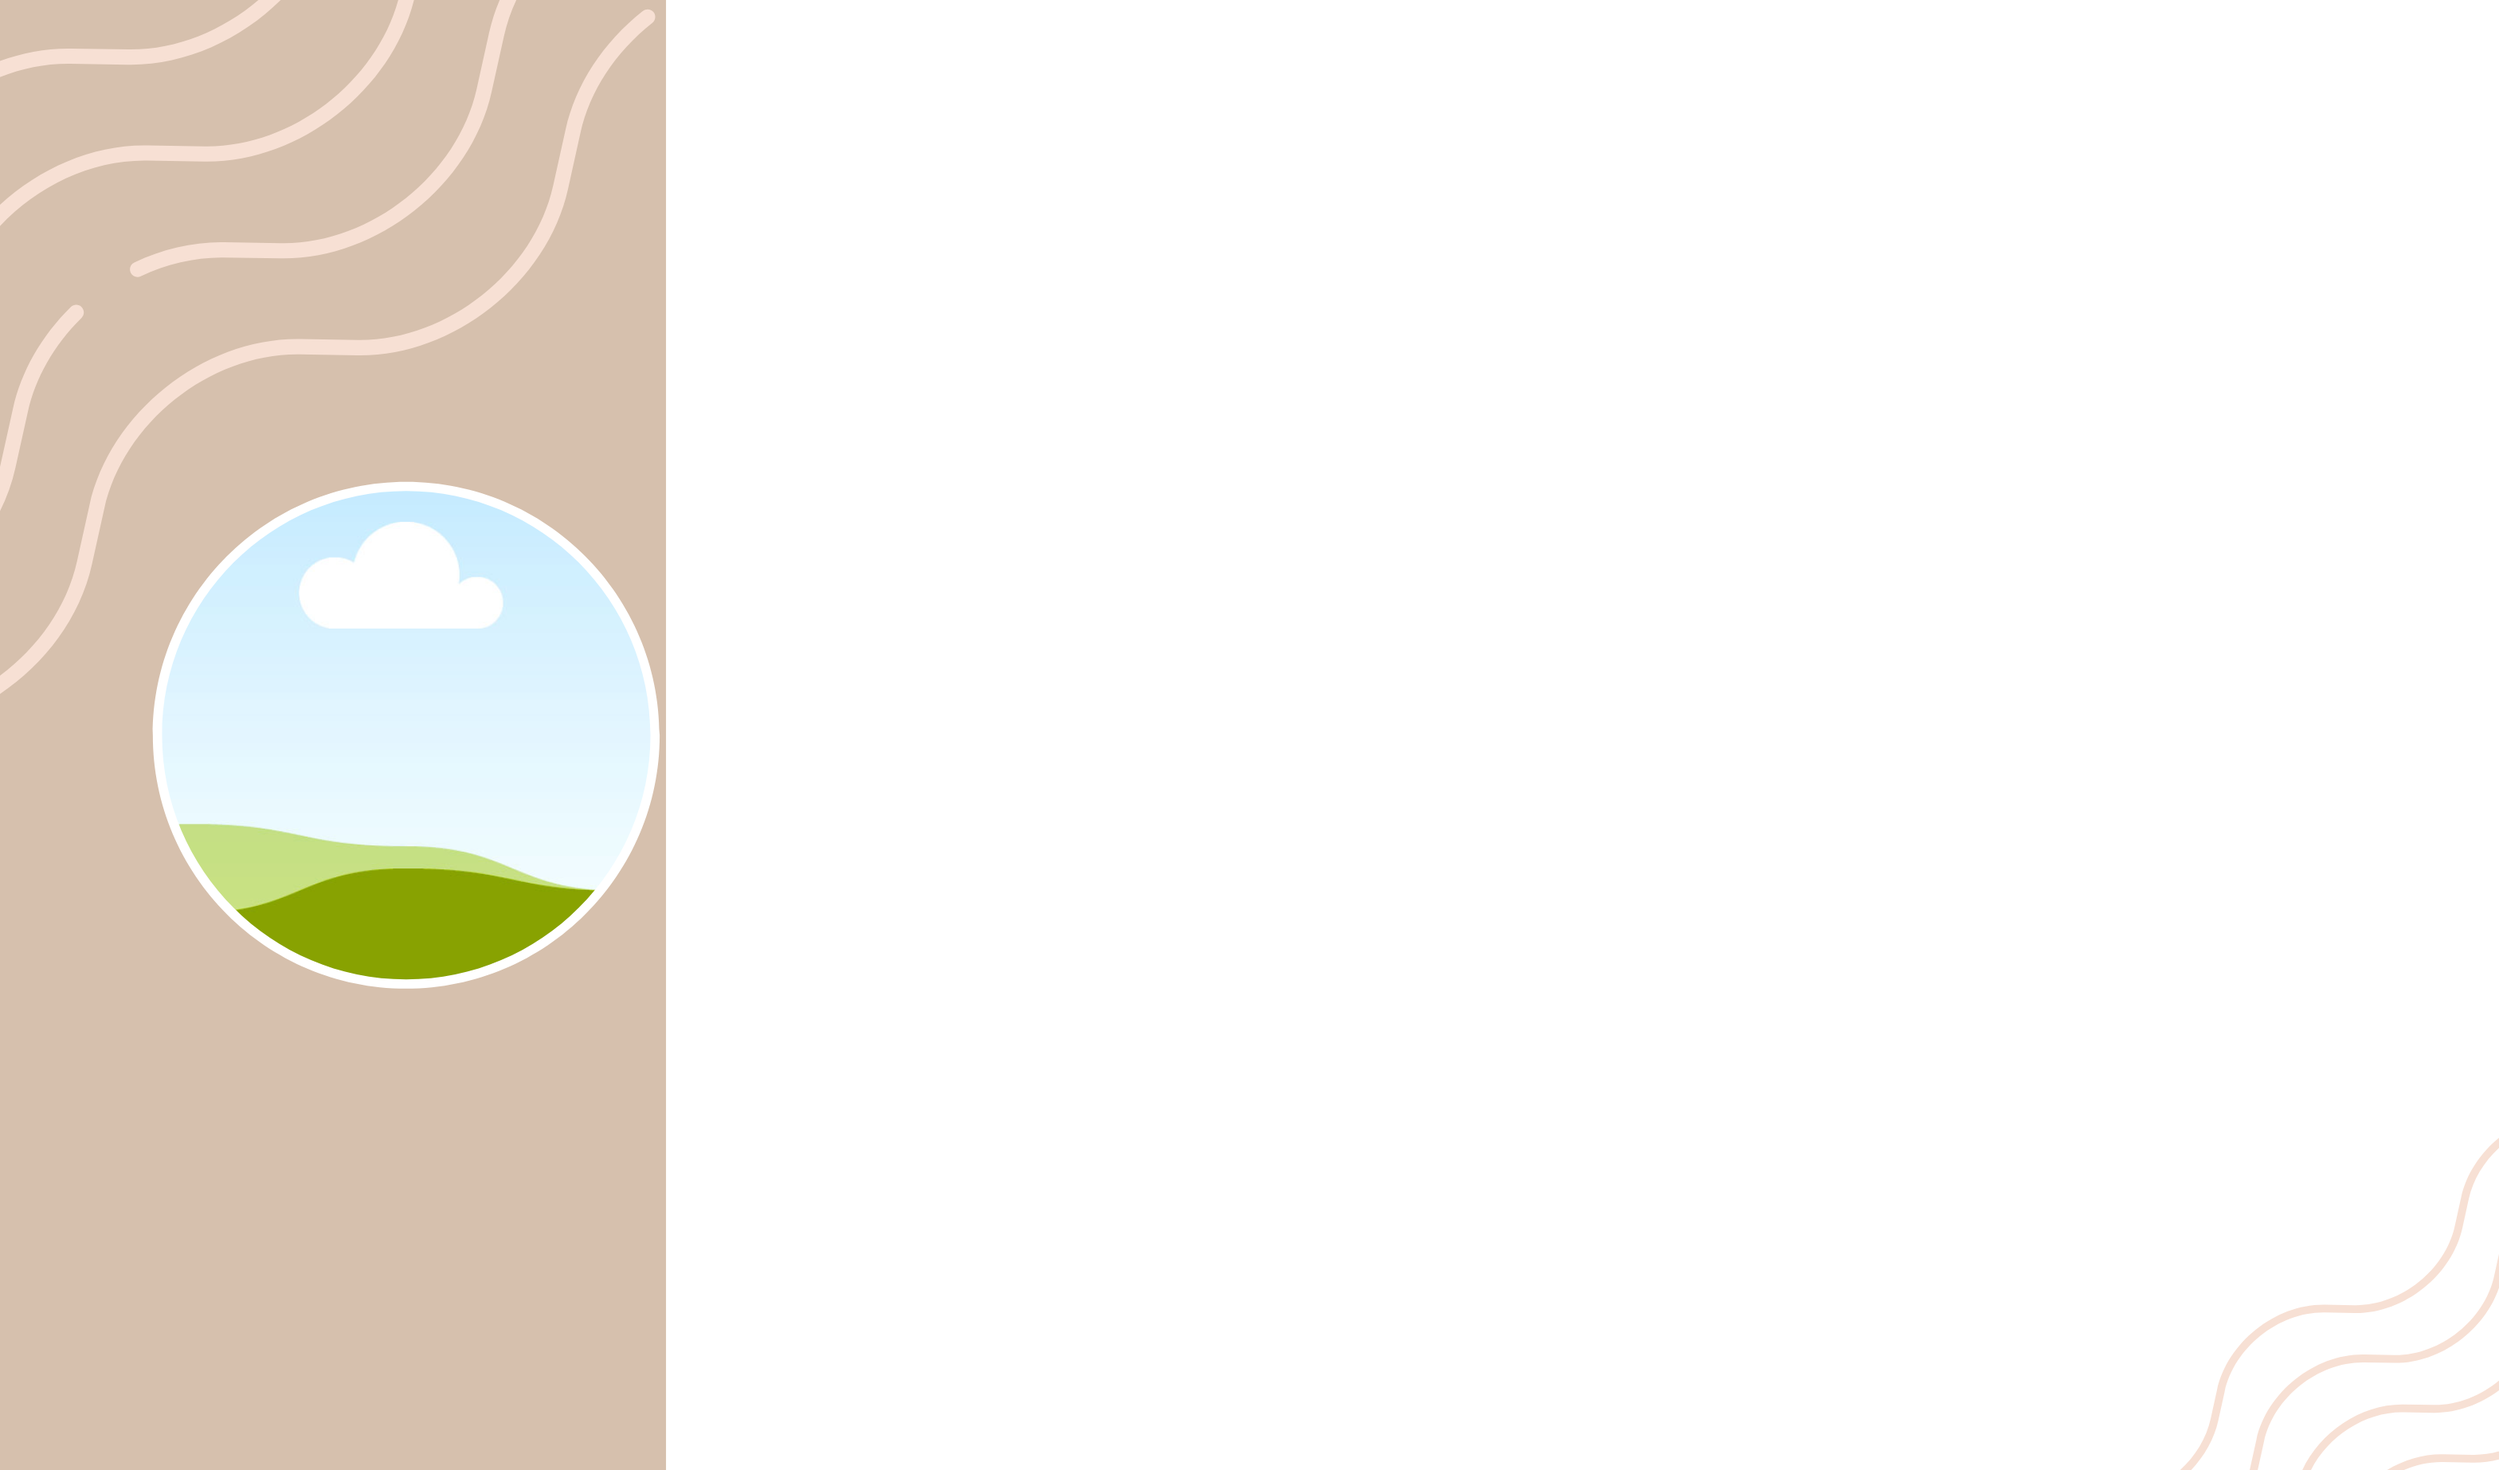
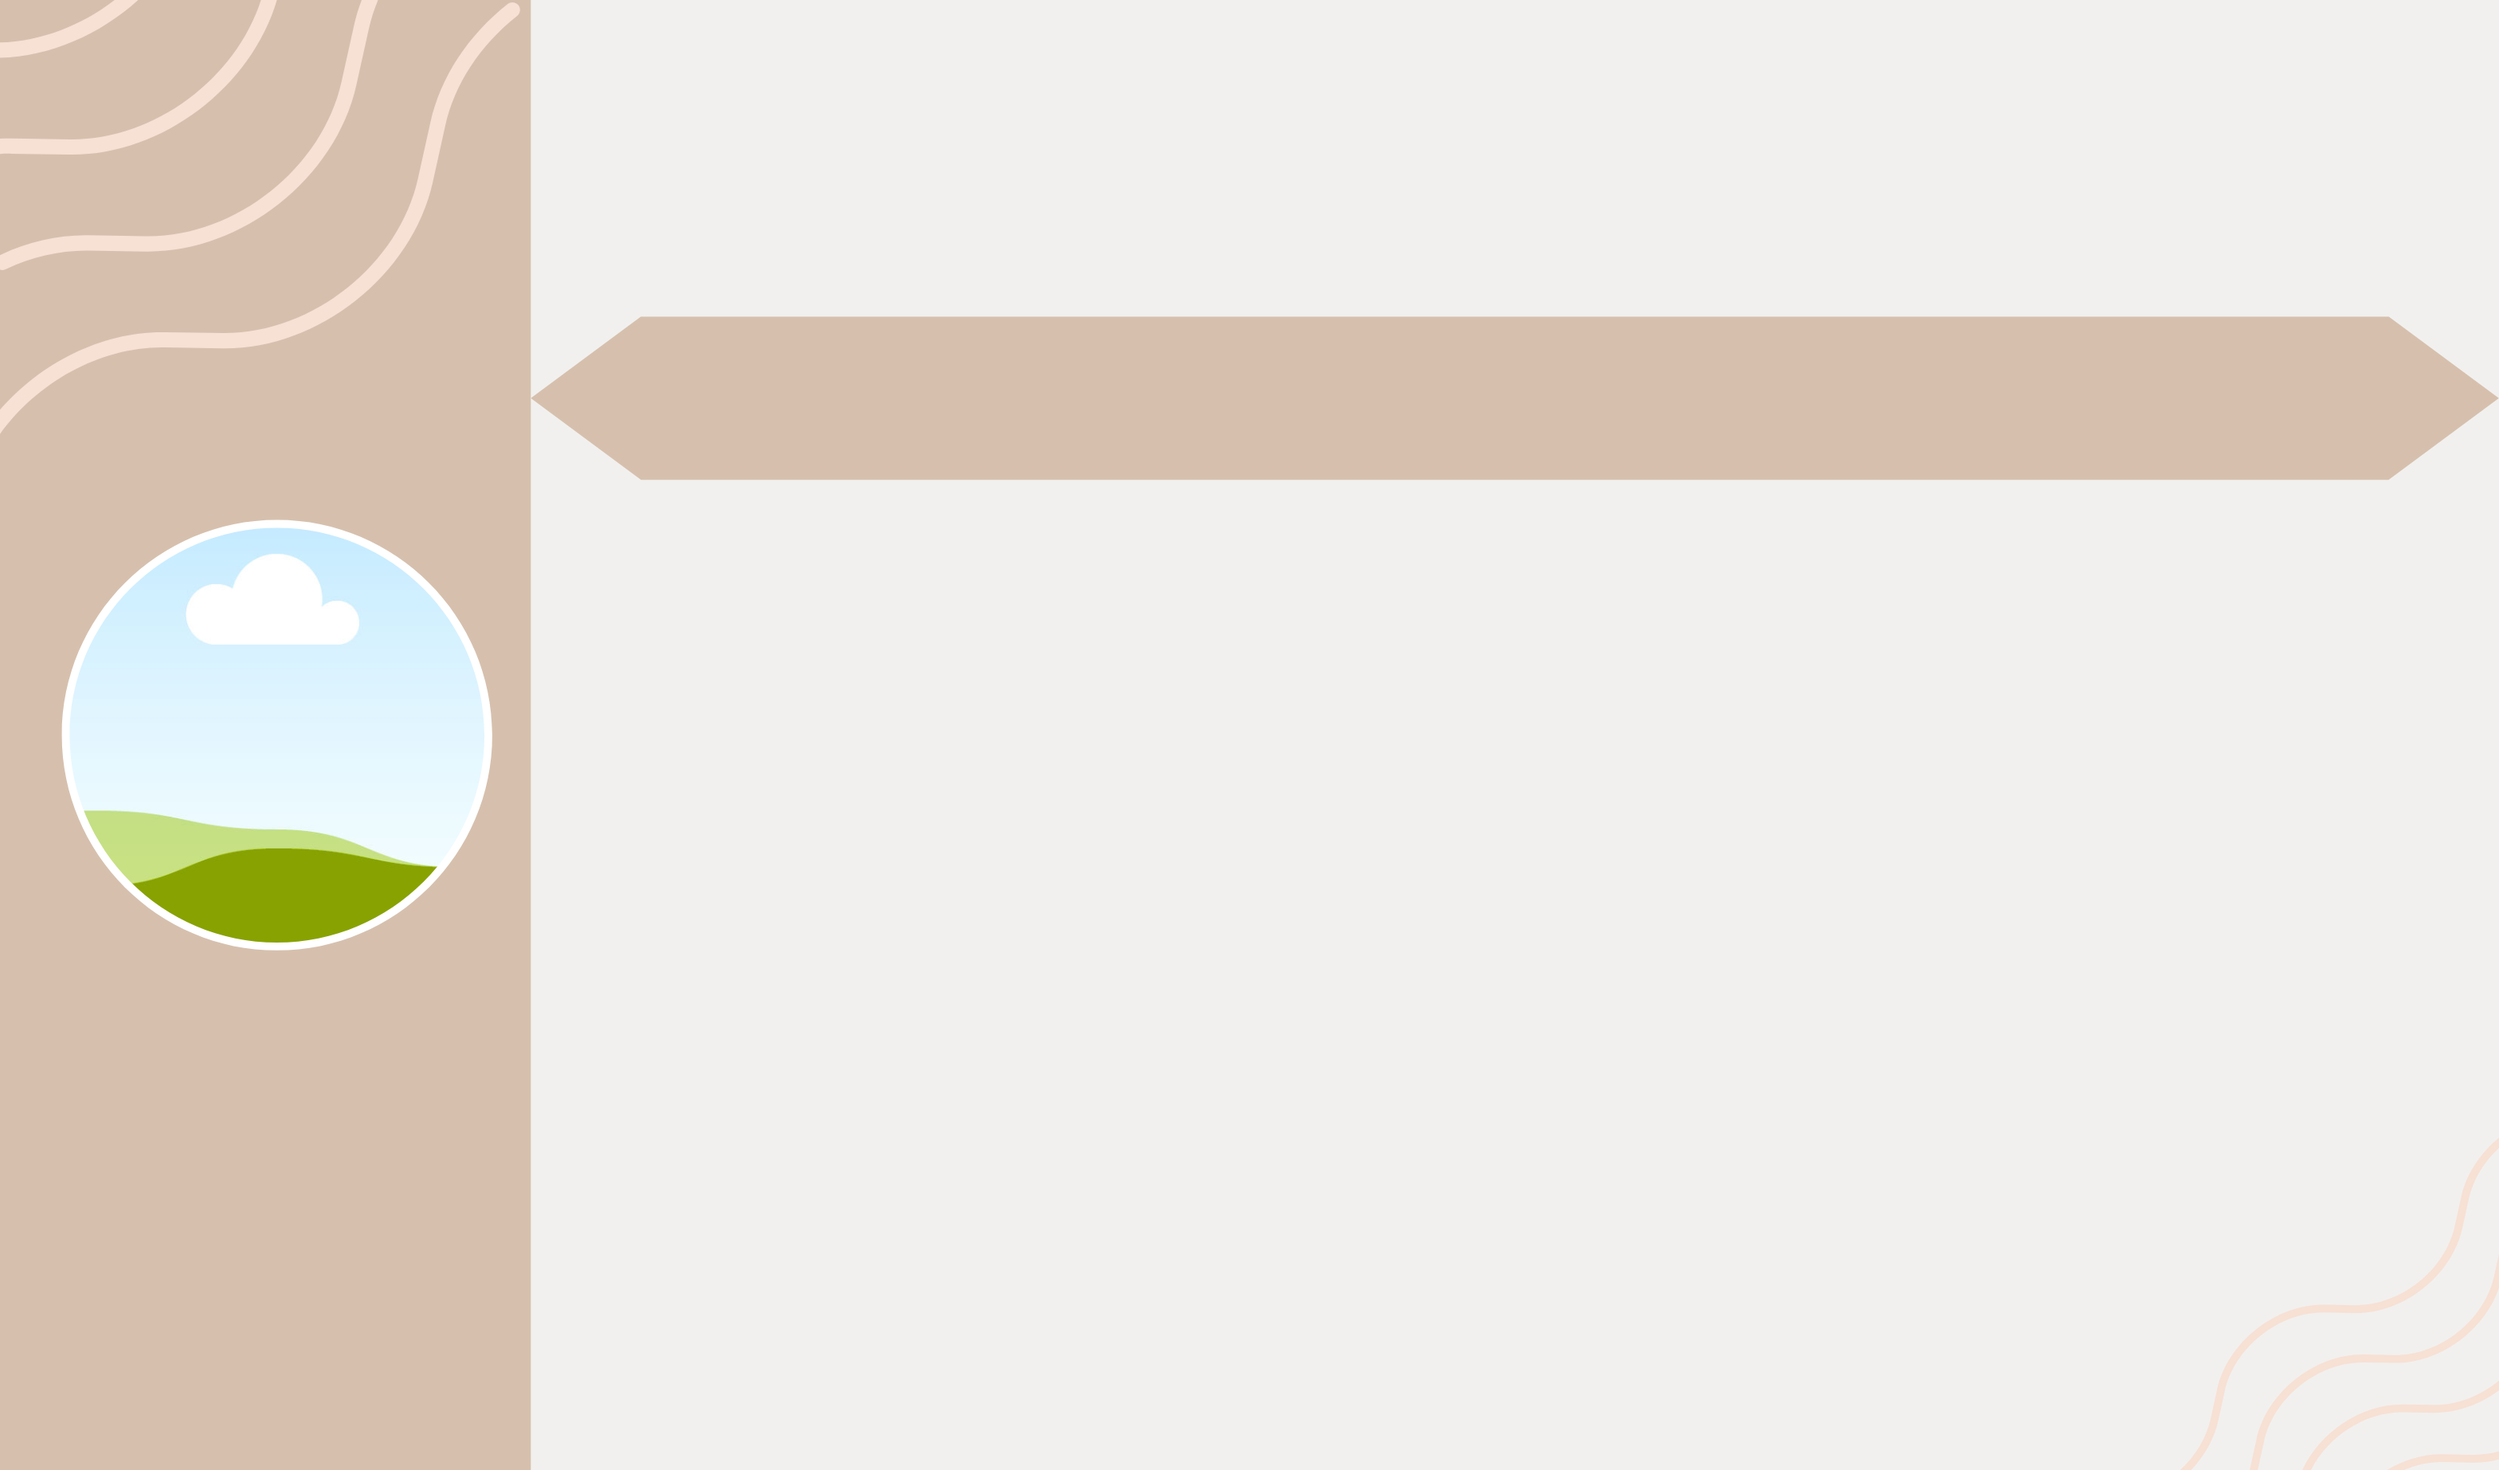
Changes
- Landscape Templates Working Properly
- Beautified The UI a bit.

Changed region(s): [[0.0, 0.0, 0.9997, 1.0]]

diff --git a/admin/school/id_cards_pdf/main/css/h5.css b/admin/school/id_cards_pdf/main/css/h5.css
@@ -17,11 +17,12 @@ body {
     border-color: black;
     height: 50mm;
     width: 84mm;
-    background-image: url("../template_images/h4.png");
-    background-size: 101%;
+    background-image: url("../template_images/h5.png");
+    background-size: 100%;
     background-repeat: no-repeat;
     vertical-align: top;
     overflow: hidden;
+    background-position: 0mm -3mm;
   }
   .sizing {
   }
@@ -35,40 +36,40 @@ body {
     width: 12mm;
     height: 12mm;
     border-radius: 7.64mm;
-    top: -0.5mm;
+    top: -1.5mm;
     left: 71mm;
   }
   #institute_name {
     height: 7.9mm;
     width: 54.5mm;
     position: relative;
-    bottom: 8.5mm;
-    left: 22mm;
-    font-size: 4.1mm;
+    bottom:10.5mm;
+    left: 21mm;
+    font-size: 3.5mm;
     text-align: left;
     display: block;
     line-height: 5mm;
     /* font-family: Impact, Haettenschweiler, 'Arial Narrow Bold', sans-serif; */
     font-weight: bolder;
-    color: black;
+    color: white;
   }
   .second_section {
     text-transform: uppercase;
     position: relative;
-    height: 41mm;
+    height: 33mm;
     text-wrap: wrap;
     padding-top: 0%;
     overflow: hidden;
-    top: 10mm;
+    top: 8mm;
   }
   
   #child-image {
-    width: 15.8mm;
-    height: 15.5mm;
+    width: 19mm;
+    height: 19.7mm;
     margin-left: 4mm;
-    border-radius: 3.4mm;
+    border-radius: 9.4mm;
     position: relative;
-    top: 6mm;
+    top: 1.4mm;
     float: left;
     left: -3mm;
   }
@@ -77,23 +78,23 @@ body {
   }
   .child-name {
     color: red;
-    font-size: 3mm;
+    font-size: 3.3mm;
     /* margin-left: 10mm; */
     position: relative;
-    padding-left: 1mm;
-    padding-right: 1mm;
-    top: -4.5mm;
+    padding-left: 0mm;
+    padding-right: 0mm;
+    top: -3.5mm;
     font-weight: bold;
     text-align: center;
-    left: 0mm;
+    left: -1mm; 
   }
   
   .child-class {
-    font-size: 2.5mm;
+    font-size: 2.4mm;
     margin-bottom: 0.9mm;
     position: relative;
     text-align: center;
-    top: -2mm;
+    top: -3.5mm;
     font-weight: bold;
     right: 4mm;
   }
@@ -101,10 +102,10 @@ body {
   .child-details {
     font-size: 2.2mm;
     text-align: left;
-    padding-left: 20mm;
-    padding-right: 18mm;
+    padding-left: 23mm;
+    padding-right: 0mm;
     position: relative;
-    top: -2.7mm;
+    top: -3mm;
     text-wrap: wrap;
     line-height: 3.4mm;
     font-weight: bold;
@@ -129,19 +130,19 @@ body {
   }
   .third_section {
     position: relative;
-    font-size: 2.5mm;
+    font-size: 2mm;
     text-align: center;
     padding-top: 1%;
     font-family: "Franklin Gothic Medium", "Arial Narrow", Arial, sans-serif;
     color: black;
     height: 2mm;
-    left: 2%;
-    bottom: 4mm;
+    left: -2%;
+    bottom: -1mm;
   }
   #principal_sign {
     position: relative;
-    top: -4.7mm;
-    right: -2.5mm;
+    top: -1.7mm;
+    right: 61.5mm;
   }
   #principal_sign span {
     font-size: 2.2mm;

diff --git a/admin/school/id_cards_pdf/main/index.html b/admin/school/id_cards_pdf/main/index.html
@@ -4,7 +4,7 @@
     <meta charset="UTF-8">
     <meta name="viewport" content="width=device-width, initial-scale=1.0">
     <title>Document</title>
-    <link rel="stylesheet" href="./css/h4.css">
+    <link rel="stylesheet" href="./css/h5.css">
 </head>
 <body>
     <table>

diff --git a/dist/css/adminlte.css b/dist/css/adminlte.css
@@ -19673,7 +19673,7 @@ html.maximized-card {
 }
 
 .text-sm .card-title {
-    font-size: 1rem;
+    font-size: 3rem;
 }
 
 .text-sm .nav-link {

diff --git a/admin/choose_template.php b/admin/choose_template.php
@@ -71,6 +71,15 @@
 		font-size: 40px;
 	}
 
+	.templates_heading {
+		background: #481CFF;
+		background: linear-gradient(to right, #481CFF 0%, #18FFEE 100%);
+		-webkit-background-clip: text;
+		-webkit-text-fill-color: transparent;
+		font-family: 'Trebuchet MS', 'Lucida Sans Unicode', 'Lucida Grande', 'Lucida Sans', Arial, sans-serif;
+		font-size: 3.5em;
+	}
+
 	#imageGallery {
 		display: flex;
 		justify-content: center;
@@ -79,14 +88,16 @@
 		flex-direction: row;
 
 	}
-	.potrait{
+
+	.potrait {
 		display: flex;
 		flex-direction: row;
 		flex-wrap: wrap;
 		justify-content: center;
 		align-items: center;
 	}
-	.landscape{
+
+	.landscape {
 		display: flex;
 		flex-direction: row;
 		flex-wrap: wrap;
@@ -105,13 +116,15 @@
 		height: 85mm;
 		border: 1px solid black;
 	}
-	.image-item-horizontal{
+
+	.image-item-horizontal {
 		margin: 5px;
 		display: flex;
 		flex-direction: column;
 		position: relative;
 	}
-	.image-item-horizontal img{
+
+	.image-item-horizontal img {
 		width: 85mm;
 		height: 50mm;
 		border: 1px solid black;
@@ -122,25 +135,43 @@
 		height: 20px;
 	}
 
+	.image-item-horizontal input[type=radio] {
+		margin-top: 10px;
+		height: 20px;
+	}
+
 	.checkbox-item {
 		margin-top: 10px;
 	}
 
 	#submitBtn {
-		width: 144px;
-		height: 34px;
+		width: 173px;
+    height: 40px;
+    background: #25d170;
+    border-radius: 999px;
+    box-shadow: #5E5DF0 0 10px 20px -10px;
+    box-sizing: border-box;
+    color: #FFFFFF;
+    cursor: pointer;
+    font-family: Inter, Helvetica, "Apple Color Emoji", "Segoe UI Emoji", NotoColorEmoji, "Noto Color Emoji", "Segoe UI Symbol", "Android Emoji", EmojiSymbols, -apple-system, system-ui, "Segoe UI", Roboto, "Helvetica Neue", "Noto Sans", sans-serif;
+    font-size: 21px;
+    font-weight: 700;
+    line-height: 24px;
+    opacity: 1;
+    outline: 0 solid transparent;
+    padding: 8px 18px;
+    user-select: none;
+    -webkit-user-select: none;
+    touch-action: manipulation;
+    width: fit-content;
+    word-break: break-word;
+    border: 0;
 	}
 
-
-	#test_image img {
-		height: 100px;
-		width: 100px;
+	#landscape_heading {
+		margin-top: 25px;
 	}
 
-	#button_flex {
-		display: flex;
-		gap: 5px;
-	}
 
 	@media (max-width: 478px) {
 
@@ -163,7 +194,7 @@
 			<section class="content  text-dark">
 				<div class="container-fluid">
 
-					<h2>Select The Template</h2>
+					<h2 class="templates_heading">Portrait Templates</h2>
 					<div id="imageGallery">
 						<div class="potrait">
 							<div class="image-item ">
@@ -207,18 +238,27 @@
 								<input type="radio" name="template" id="10">
 							</div>
 						</div>
+						<h2 class="templates_heading">Landscape Templates</h2>
 						<div class="landscape">
 							<div class="image-item-horizontal">
-							<img src="school/id_cards_pdf/main/template_images/h1.png" alt="template1" srcset="">
+								<img src="school/id_cards_pdf/main/template_images/h1.png" alt="template1" srcset="">
 								<input type="radio" name="template" id="h1">
 							</div>
 							<div class="image-item-horizontal">
-							<img src="school/id_cards_pdf/main/template_images/h2.png" alt="template1" srcset="">
+								<img src="school/id_cards_pdf/main/template_images/h2.png" alt="template1" srcset="">
 								<input type="radio" name="template" id="h2">
 							</div>
 							<div class="image-item-horizontal">
-							<img src="school/id_cards_pdf/main/template_images/h3.png" alt="template1" srcset="">
+								<img src="school/id_cards_pdf/main/template_images/h3.png" alt="template1" srcset="">
 								<input type="radio" name="template" id="h3">
+							</div>
+							<div class="image-item-horizontal">
+								<img src="school/id_cards_pdf/main/template_images/h4.png" alt="template1" srcset="">
+								<input type="radio" name="template" id="h4">
+							</div>
+							<div class="image-item-horizontal">
+								<img src="school/id_cards_pdf/main/template_images/h5.png" alt="template1" srcset="">
+								<input type="radio" name="template" id="h5">
 							</div>
 						</div>
 

diff --git a/admin/manage-schools.php b/admin/manage-schools.php
@@ -1,3 +1,29 @@
+<style>
+.btns{
+  background: #5E5DF0;
+    border-radius: 999px;
+    box-shadow: #5E5DF0 0 10px 20px -10px;
+    box-sizing: border-box;
+    color: #FFFFFF;
+    cursor: pointer;
+    font-family: Inter,Helvetica,"Apple Color Emoji","Segoe UI Emoji",NotoColorEmoji,"Noto Color Emoji","Segoe UI Symbol","Android Emoji",EmojiSymbols,-apple-system,system-ui,"Segoe UI",Roboto,"Helvetica Neue","Noto Sans",sans-serif;
+    font-size: 11px;
+    font-weight: 700;
+    line-height: 24px;
+    opacity: 1;
+    outline: 0 solid transparent;
+    padding: 8px 18px;
+    user-select: none;
+    -webkit-user-select: none;
+    touch-action: manipulation;
+    width: fit-content;
+    word-break: break-word;
+    border: 0;
+}
+#password_btn{
+  background-color: green;
+}
+</style>
 <div class="card card-outline card-primary" id="classes_list">
 	<div class="card-header">
 		<h3 class="card-title" id="heading">Manage School Users</h3>
@@ -22,12 +48,12 @@
               </td>
               <td>
                 <a href='./?page=edit-school&school={$school['id']}' >
-                <button>Edit School</button>
+                <button class='btns' >Edit School</button>
                 </a>
               </td>
               <td>
                 <a href='./?page=edit-school-password&school={$school['id']}' >
-                <button>Edit Password</button>
+                <button class='btns'id ='password_btn' >Edit Password</button>
                 </a>
               </td>
             </tr>

diff --git a/admin/school/classes_list_admin.php b/admin/school/classes_list_admin.php
@@ -114,6 +114,9 @@
 			width: 110vw;
 		}
 }
+#get_classes_btn{
+	margin: 10px 10px 10px 	0px;
+}
 </style>
 <div class="card card-outline card-primary" id="classes_list">
 	<div class="card-header">
@@ -126,9 +129,7 @@
 		<div class="container-fluid">
 			<div class="row row-cols-3 gx-3">
 
-			<h3>Select School to get class list and print ID Card</h3>
-			
-				
+			<h3>Select School to get class list and print ID Card</h3>	
 				<?php
 						$school_id = $_POST['school_id'] ?? '1';
 						
@@ -146,7 +147,7 @@
 					<br>
 					<form action="" method="POST">
 						<input type="hidden" name="school_id" id="school_id" value="1">
-						<button type="submit" class="btn btn-primary">Get Classes</button>
+						<button type="submit" id="get_classes_btn" class="btn btn-primary">Get Classes</button>
 					</form>
 					<br>
 					<?php

diff --git a/admin/school/id_cards_pdf/main/template_1.php b/admin/school/id_cards_pdf/main/template_1.php
@@ -102,6 +102,6 @@
   // Render the HTML as PDF
   $dompdf->render();
   // Output the generated PDF to Browser
-  $dompdf->stream("", array("Attachment" => false));
-  // $dompdf->stream();
+  // $dompdf->stream("", array("Attachment" => false));
+  $dompdf->stream();
 ?>

diff --git a/admin/school/classes_list.php b/admin/school/classes_list.php
@@ -114,6 +114,9 @@
 			width: 110vw;
 		}
 }
+#heading{
+	font-size: 3rem;
+}
 </style>
 <div class="card card-outline card-primary" id="classes_list">
 	<div class="card-header">
